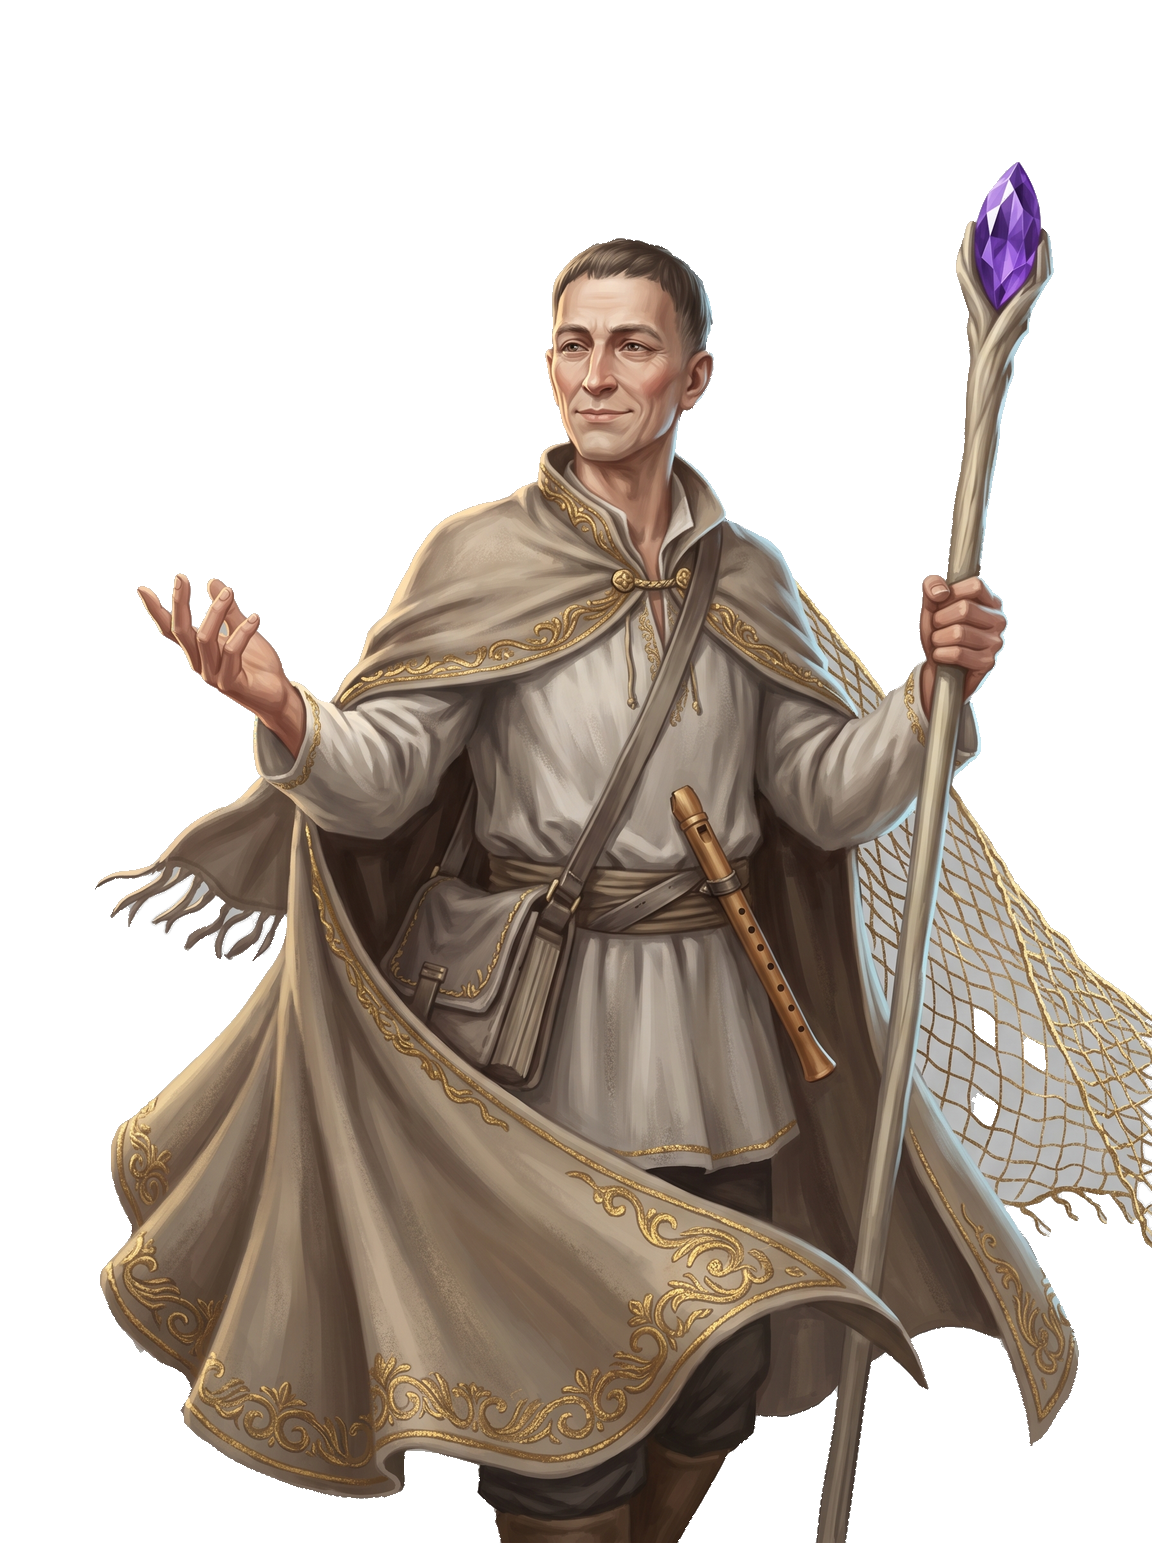
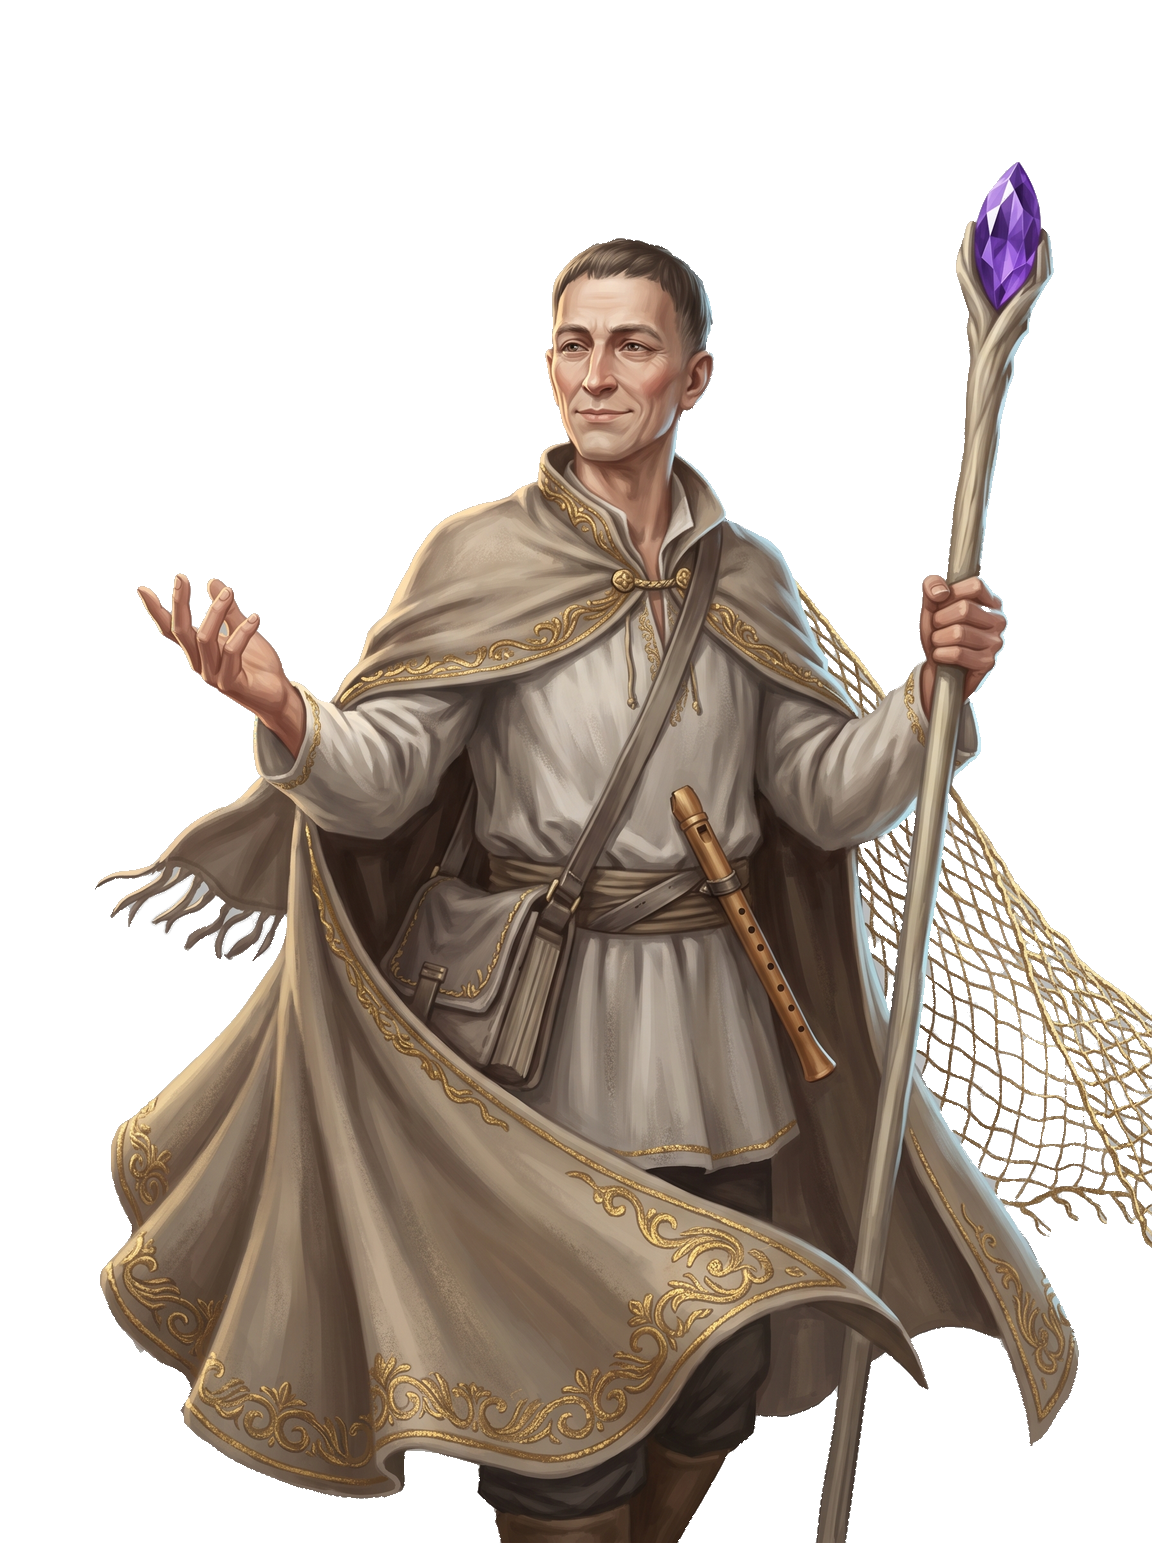
Crystal Rush art: Сковорода's golden net is see-through (tools/art/net_holes.py clears the grey in the mesh, the cloak stays)

Changed region(s): [[0.75, 0.4977, 1.0, 0.7777], [0.7188, 0.4044, 0.7812, 0.4666]]

diff --git a/crystal-rush/tools/art/net_holes.py b/crystal-rush/tools/art/net_holes.py
@@ -1,0 +1,53 @@
+# Punches the background seen through a net (or any lattice) out of an installed cut-out: in a region, the small
+# neutral-grey components close to the sheet's background and ringed by net strands become clear; their 2-px rims
+# fade by colour distance.
+#   py net_holes.py <src.jpg> <card.png> <out.png> <y0> <y1> <x0> <x1> (fractions) [tol]
+import sys, numpy as np
+from PIL import Image
+from scipy import ndimage
+src, card, out = sys.argv[1:4]
+fy0, fy1, fx0, fx1 = map(float, sys.argv[4:8])
+tol = float(sys.argv[8]) if len(sys.argv) > 8 else 18
+o = np.asarray(Image.open(card).convert('RGBA')).astype(np.float32)
+h, w = o.shape[:2]
+a = np.asarray(Image.open(src).convert('RGB').resize((w, h), Image.LANCZOS)).astype(np.float32)
+bg = np.median(np.concatenate([a[:6].reshape(-1, 3), a[:, :6].reshape(-1, 3), a[:, -6:].reshape(-1, 3)]), 0)
+d = np.sqrt(((a - bg) ** 2).sum(-1))
+reg = np.zeros(d.shape, bool)
+reg[int(fy0 * h):int(fy1 * h), int(fx0 * w):int(fx1 * w)] = True
+gold = ((a[..., 0] - a[..., 2]) > 12) | (o[..., 3] < 40)    # a net strand (gold) or already clear
+
+
+def strands(lab, sl, k):
+    """The share of a component's 3-px ring that is net strand or clear: a cell of the net is ringed by gold,
+    a pale patch of fabric is not."""
+    y0, y1 = max(sl[0].start - 4, 0), sl[0].stop + 4
+    x0, x1 = max(sl[1].start - 4, 0), sl[1].stop + 4
+    m = lab[y0:y1, x0:x1] == k
+    ring = ndimage.binary_dilation(m, iterations=3) & ~m
+    return gold[y0:y1, x0:x1][ring].mean() if ring.any() else 0.0
+
+
+holes = np.zeros(d.shape, bool)
+kept = 0
+for tt in sorted({12, 16, 20, 24, tol}):    # several tolerances: a shaded cell passes at a wider one, a clean cell at a tight one
+    cand = (d < tt) & reg & (o[..., 3] > 0) & ~holes
+    lab, n = ndimage.label(cand)
+    for i, sl in enumerate(ndimage.find_objects(lab)):
+        m = lab[sl] == i + 1
+        s = m.sum()
+        if s < 12 or s > 20000:
+            continue
+        px = a[sl][m]
+        chroma = np.abs(px - px.mean(1, keepdims=True)).max(1).mean()
+        if chroma < 5 and px.std(0).max() < 9 and strands(lab, sl, i + 1) > 0.55:
+            holes[sl] |= m
+            kept += 1
+al = o[..., 3].copy()
+core = ndimage.binary_dilation(holes, iterations=1)
+al[core] = 0
+rim = ndimage.binary_dilation(core, iterations=2) & ~core
+al = np.where(rim, np.minimum(al, np.clip((d - 6) / 26, 0, 1) * 255), al)
+o[..., 3] = al
+Image.fromarray(o.astype(np.uint8), 'RGBA').save(out, optimize=True)
+print('holes', kept, 'px', int(core.sum()))

diff --git a/crystal-rush/tools/art/README.md b/crystal-rush/tools/art/README.md
@@ -5,6 +5,10 @@
   `preview(o, path, k)`. Typical use: scale the owner's 4K art to 1152 px wide, `cutout(im, tol=10)`, `clean(..., hole_std=3.0,
   hole_d=8)`, look at the preview on dark, then install as `assets/heroes/<id>/splash.png` / `card.png` with framing in
   `scripts/ui/heroes/hero_art.gd` (`META`). Sources go to `art_src/heroes/<id>/` (JPEG q88).
+- `net_holes.py` — clears the background seen through a net or lattice in an installed cut-out: `py net_holes.py src.jpg
+  card.png out.png y0 y1 x0 x1 [tol]` (region as fractions). A hole is a small neutral-grey patch close to the sheet's
+  background (tried at several tolerances) whose 3-px ring is mostly gold strand or already clear, so pale fabric next to
+  the net stays. Used for Сковорода's golden net (`0.30 0.86 0.62 1.0 28`); check the zoomed edges on dark afterwards.
 - `../art_prompts/build.py` — builds the owner's prompt page from `docs/design/heroes_prompts.md`: `python3 build.py --repo` writes
   `docs/art_prompts/index.html` (opened in a browser via htmlpreview); without `--repo` it writes the self-contained page with
   embedded images to `out/` (or `$ART_PROMPTS_OUT`). Add finished art to `RECEIVED` in build.py.

diff --git a/crystal-rush/assets/heroes/skovoroda/README.md b/crystal-rush/assets/heroes/skovoroda/README.md
@@ -6,7 +6,7 @@
   with a calm half-smile, a dust-cream travelling cloak and shirt with gold baroque embroidery, a satchel, a wooden sopilka
   at the belt, a long wooden staff whose carved claws hold a long pointed violet amethyst (the heart gem), a golden net
   slipping off behind him.
-  Known cut-out flaw: the mesh holes of the golden net (right of the staff, about x 0.75-0.98, y 0.52-0.85 of the card)
-  still hold the source's grey background; only three holes are clear. Needs a `hole_regions` pass in cutlib.
+  The golden net's mesh (right of the staff) was cleared afterwards with `tools/art/net_holes.py` (region
+  `0.30 0.86 0.62 1.0`, tol 28): about 200 cells see through; a few tiny grey slivers stay where strands cross.
 - `splash.png` — the same art (cameos and walkouts use the splash slot).
 - Framing: `HeroArt.META["skovoroda"]` (eyes at x 0.525, y 0.23 of the card).
